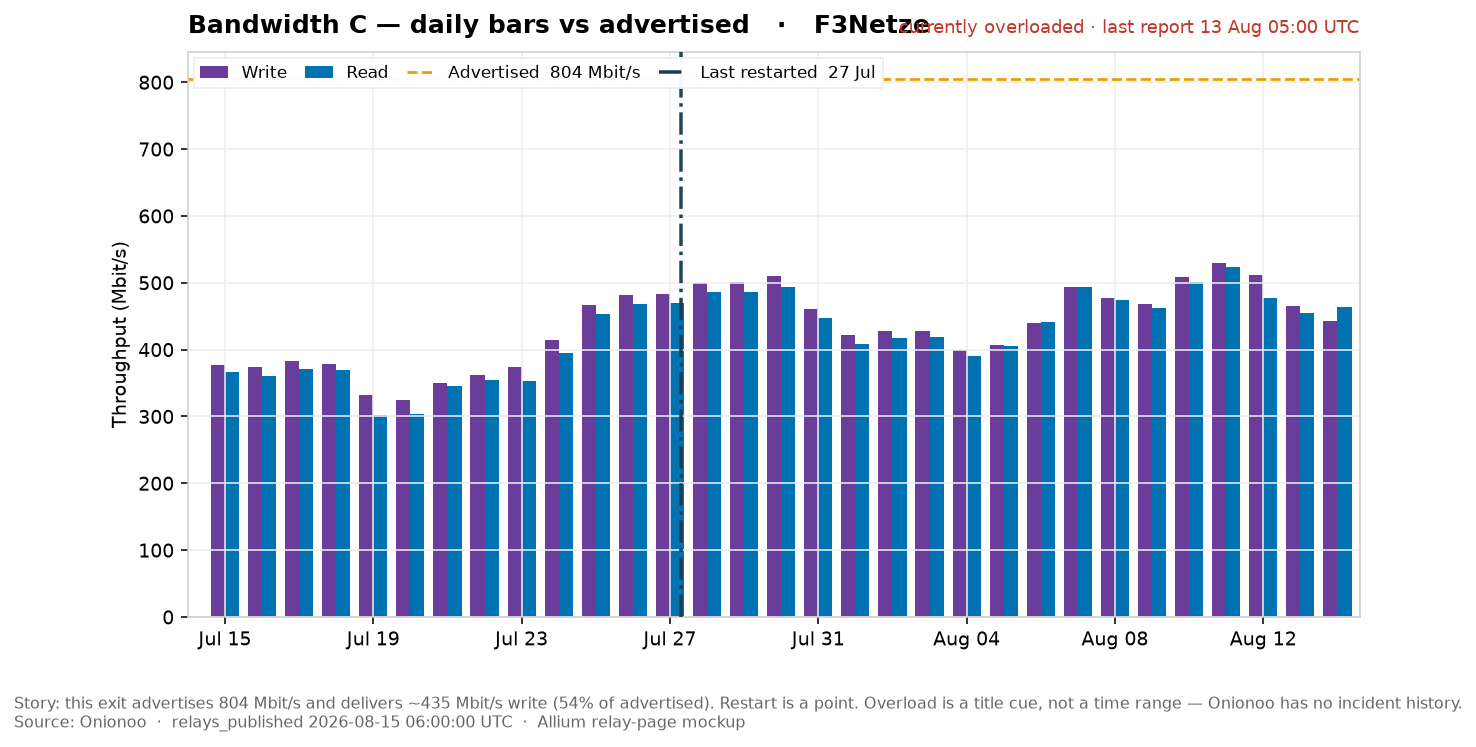
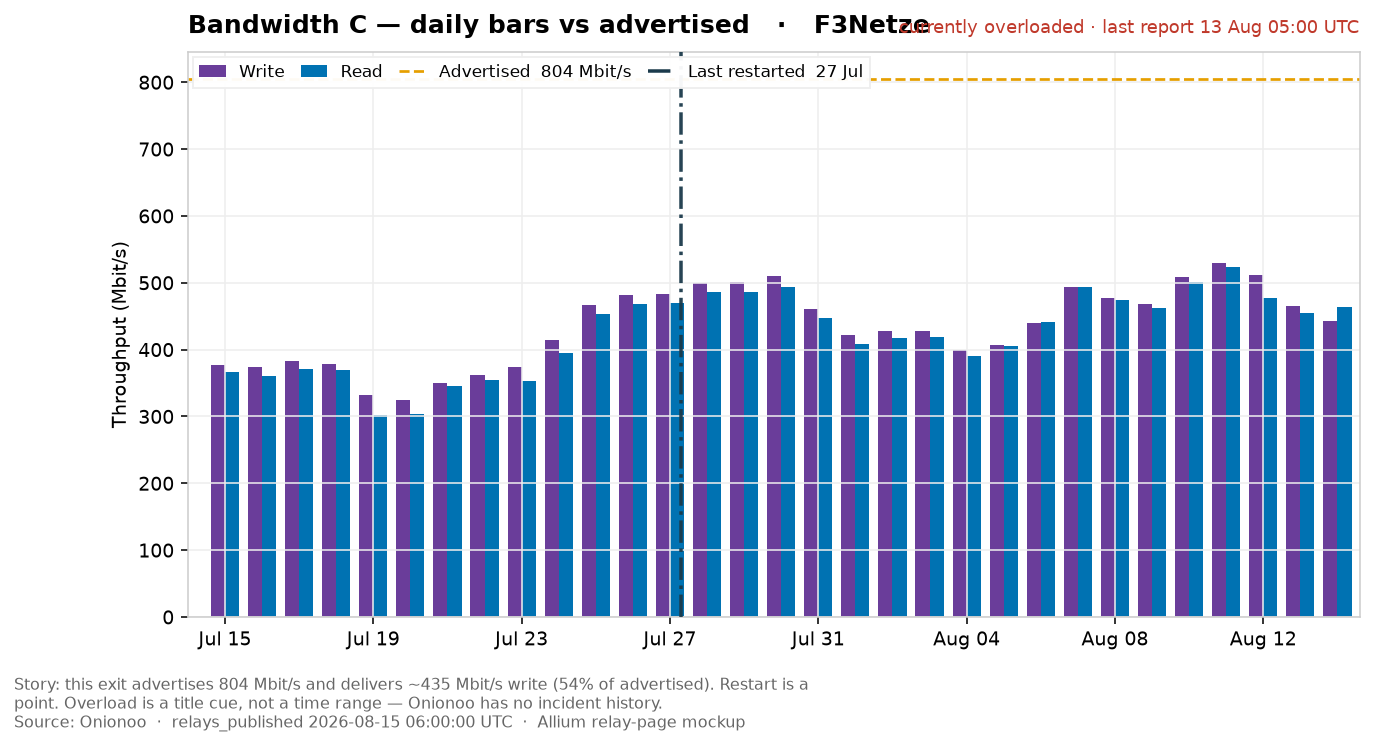
Render option-C period layouts and per-role bandwidth mockups
Wrap overload onto its own legend row (matplotlib fills column-first,
so ncol alone left it on the top line). Wrap long captions so
bbox=tight no longer stretches the figure. Commit the option-C pills,
2x2, hero+sparks, th4r 5Y-omitted, and Exit/Guard/Exit+Guard/Middle
band charts.

diff --git a/docs/features/planned/charts/mockups/relay_page_bw_opt3_role_bands.html b/docs/features/planned/charts/mockups/relay_page_bw_opt3_role_bands.html
@@ -3,7 +3,7 @@
 <head>
   <meta charset="utf-8">
   <meta name="viewport" content="width=device-width, initial-scale=1">
-  <title>jeangrae — Tor Relay | bandwidth chart layout option 2</title>
+  <title>Write/read bands by flag set · option C</title>
   <style>
 :root { --aeo-green:#00ff7f; --aeo-dark-surface:#1e1e1e; --aeo-text-muted:#ccc;
   --color-success:#28a745; --color-danger:#dc3545; --color-warning-text:#856404;
@@ -74,107 +74,77 @@ code { font-size:12px; background:#eee; padding:1px 4px; border-radius:3px; }
   <a class="aeo-nav-brand" href="#">1AEO</a>
   <div class="aeo-nav-links">
     <a href="#">Home</a><a class="active" href="#">Metrics</a>
-    <a href="#">AROI Validator</a><a href="#">RouteFluxMap</a>
   </div>
 </div></nav>
 <div class="container">
-  <p class="breadcrumb">Home &gt; Browse by Network &gt; AS36849 &gt; jeangrae</p>
   <div class="option-banner">
-    <strong>Option 2 of 3 — After Capacity / Measurement</strong>
-    Rejected alt. Scalars first, chart before Network Participation.
-    Relay: <strong>jeangrae</strong> (1aeo family)
-    · not overloaded.
+    <strong>Option C — one chart per frozen flag-set band</strong>
+    Same History subsection as the F3Netze page. Each relay uses its own
+    Exit / Guard / Exit+Guard / Middle p10–p90 and p98. Overlay is already
+    on the strip.
   </div>
-  <h1 class="page-title">View Relay "jeangrae"</h1>
-  <p class="relay-meta">
-    Fingerprint: <code>02B1C5DFBCBEC735435652050DE1AF0BB0B108CF</code> |
-    Operator: <a href="#">1aeo.com</a> |
-    Family: 241 relays |
-    AS36849 · United States |
-    Tor 0.4.9.11 on Linux
-  </p>
-
-  <div id="status" class="section-box" style="border-left:4px solid #28a745;">
-    <h4><div class="section-header"><a href="#status">Health Status</a></div></h4>
-    <div class="health-status-grid">
-      <dl>
-        <div class="health-row"><dt><a href="#flags">Consensus</a></dt>
-          <dd><span class="al-status-success">In Consensus</span></dd></div>
-        <div class="health-row"><dt><a href="#flags">Flags</a></dt>
-          <dd>Fast, Guard, HSDir, Running, Stable, V2Dir, Valid</dd></div>
-        <div class="health-row"><dt><a href="#bandwidth">BW Verified</a></dt>
-          <dd><span class="al-status-success">Measured</span></dd></div>
-        <div class="health-row"><dt><a href="#uptime">Stability</a></dt>
-          <dd><span class="al-status-success">Not Overloaded</span> <span class="al-status-muted">|</span>
-          <span class="al-status-success">14 days ago</span></dd></div>
-      </dl>
-      <dl>
-        <div class="health-row"><dt><a href="#connectivity">Reachability</a></dt>
-          <dd>IPv4 / IPv6 <span class="al-text-small-muted">(Directory Auths)</span></dd></div>
-        <div class="health-row"><dt><a href="#uptime">First Seen</a></dt>
-          <dd>17 months ago</dd></div>
-        <div class="health-row"><dt><a href="#bandwidth">BW Weight</a></dt>
-          <dd>0.0382% of Network | 82.03 MB/s Observed By Relay</dd></div>
-        <div class="health-row"><dt>Version</dt>
-          <dd><span class="al-status-success">0.4.9.11 Recommended</span></dd></div>
-      </dl>
+  
+  <section class="section-box">
+    <h4>Exit+Guard  ·  F3Netze</h4>
+    <p class="relay-meta">
+      <code>3C89C80E2699FB6358BBB64FDC9547AFCB5C03F7</code> · Exit, Fast, Guard, Running, Stable, V2Dir, Valid · AS205100 ·
+      Germany · family 24<br>
+      Frozen bands: typical 0.97–1.15
+      (p10–p90) · investigate &lt;0.93 or
+      &gt;1.71 (beyond p98)
+    </p>
+    <div class="chart-wrap">
+      <img src="relay_bandwidth_a_role_exitguard_f3.png" alt="Throughput history for F3Netze">
+      <p class="chart-note">Exit+Guard frozen p10–p90 / beyond p98. inside Exit+Guard typical 0.97–1.15 (this role's p10–p90).</p>
     </div>
-  </div>
-
-  <section id="flags" class="section-box ghost">
-    <h4>Flags and Eligibility</h4>
-    <p class="al-text-small-muted">Unchanged — eligibility table stays. Flag-flapping
-    chart (R3) would sit here later. Dimmed in this mockup.</p>
   </section>
-
-  <section id="bandwidth" class="section-box">
-    <h4><div class="section-header"><a href="#bandwidth">Bandwidth Metrics</a></div></h4>
-    
-        <div class="row">
-          <div class="col">
-      <h5 class="subsection-header">Capacity (Relay Reported)</h5>
-      <dl>
-        <dt>Observed Bandwidth</dt><dd>82.03 MB/s</dd>
-        <dt>Advertised Bandwidth</dt><dd>82.03 MB/s</dd>
-        <dt>Rate Limit</dt><dd>1.07 GB/s</dd>
-        <dt>Burst Limit</dt><dd>1.07 GB/s</dd>
-      </dl>
+  <section class="section-box">
+    <h4>Guard  ·  jeangrae</h4>
+    <p class="relay-meta">
+      <code>02B1C5DFBCBEC735435652050DE1AF0BB0B108CF</code> · Fast, Guard, HSDir, Running, Stable, V2Dir, Valid · AS36849 ·
+      United States · family 241<br>
+      Frozen bands: typical 1.01–1.17
+      (p10–p90) · investigate &lt;0.99 or
+      &gt;1.58 (beyond p98)
+    </p>
+    <div class="chart-wrap">
+      <img src="relay_bandwidth_a_role_guard_jeangrae.png" alt="Throughput history for jeangrae">
+      <p class="chart-note">Guard frozen p10–p90 / beyond p98. uncommon for Guard at 1.20 (outside p10–p90, inside p2–p98).</p>
     </div>
-          <div class="col">
-      <h5 class="subsection-header">Measurement (Directory Authority Verified)</h5>
-      <dl>
-        <dt>Measured By</dt>
-        <dd><span class="al-status-success">Yes</span> (≥3 authorities)</dd>
-        <dt>Consensus Weight</dt>
-        <dd>87,000 <span class="al-text-small-muted">(0.0382% of network)</span></dd>
-      </dl>
-    </div>
-        </div>
-        <div class="chart-wrap">
-      <img src="relay_bandwidth_page_opt2_jeangrae.png" alt="Throughput history for jeangrae">
-      <p class="chart-note">Onionoo <code>write_history</code> / <code>read_history</code> · advertised is the descriptor snapshot, not a history.</p>
-    </div>
-        <div class="participation">
-      <strong>Network Participation:</strong>
-      Consensus Weight: 0.0382% of network |
-      Guard: 0.0680% |
-      Middle: N/A |
-      Exit: N/A
-    </div>
-        
   </section>
-
-  <section id="uptime" class="section-box ghost">
-    <h4>Uptime and Stability</h4>
-    <p class="al-text-small-muted">Existing 1M/6M/1Y/5Y scalars + overload subsection
-    stay. R1 uptime chart sits here. Dimmed in this mockup.
-    Overload <em>details</em> remain in this section; the bandwidth chart only
-    repeats a current cue if the flag is on.</p>
+  <section class="section-box">
+    <h4>Exit  ·  zarathustra</h4>
+    <p class="relay-meta">
+      <code>E70906B974DF23A6858B06FED589DC3696781F00</code> · Exit, Fast, Running, Stable, Valid · AS680 ·
+      Germany · family 1<br>
+      Frozen bands: typical 0.96–1.02
+      (p10–p90) · investigate &lt;0.92 or
+      &gt;1.13 (beyond p98)
+    </p>
+    <div class="chart-wrap">
+      <img src="relay_bandwidth_a_role_exit_zarathustra.png" alt="Throughput history for zarathustra">
+      <p class="chart-note">Exit frozen p10–p90 / beyond p98. inside Exit typical 0.96–1.02 (this role's p10–p90).</p>
+    </div>
   </section>
+  <section class="section-box">
+    <h4>Middle  ·  10dxx</h4>
+    <p class="relay-meta">
+      <code>F538DBEA80CA7DA733537166CA364D98CBE9E1D1</code> · BadExit, Fast, MiddleOnly, Running, Stable, Valid · AS49981 ·
+      Netherlands · family 1<br>
+      Frozen bands: typical 0.93–1.09
+      (p10–p90) · investigate &lt;0.87 or
+      &gt;1.60 (beyond p98)
+    </p>
+    <div class="chart-wrap">
+      <img src="relay_bandwidth_a_role_middle_10dxx.png" alt="Throughput history for 10dxx">
+      <p class="chart-note">Middle frozen p10–p90 / beyond p98. inside Middle typical 0.93–1.09 (this role's p10–p90).</p>
+    </div>
+  </section>
+  <p class="al-text-small-muted">Onionoo relays_published 2026-08-15 06:00:00 UTC.
+  Bands frozen from the 2026-08-15 19:00 census. Not a live percentile.</p>
 </div>
 <footer class="aeo-footer">
-  Mockup of <code>relay-info.html</code> #bandwidth · Allium · Onionoo snapshot
-  · not a live page
+  Mockup of <code>relay-info.html</code> #bandwidth · Allium
 </footer>
 </body>
 </html>

diff --git a/docs/features/planned/charts/mockups/relay_page_bw_opt3_history_f3.html b/docs/features/planned/charts/mockups/relay_page_bw_opt3_history_f3.html
@@ -54,6 +54,9 @@ dd { margin:2px 0 0; }
   border:1px solid var(--color-border-subtle); }
 .chart-wrap img { width:100%; height:auto; display:block; }
 .chart-note { font-size:12px; color:#666; margin:4px 8px 8px; }
+.layout-label { margin:16px 0 8px; padding:8px 12px; background:#fff;
+  border-left:3px solid #337ab7; font-size:13px; color:#1b3a4b; }
+.layout-label strong { display:block; font-size:14px; margin-bottom:2px; }
 .heading-row { display:flex; align-items:baseline; justify-content:space-between;
   gap:12px; flex-wrap:wrap; }
 .overload-cue { color: var(--overload); font-size:13px; font-weight:600; }
@@ -78,7 +81,7 @@ code { font-size:12px; background:#eee; padding:1px 4px; border-radius:3px; }
   <p class="breadcrumb">Home &gt; Browse by Network &gt; AS205100 &gt; F3Netze</p>
   <div class="option-banner">
     <strong>Option 3 of 3 — History subsection after Network Participation</strong>
-    All snapshot numbers stay together. Chart is a named subsection before “Bandwidth Values Explained”. Overload is a diamond in the legend, not a banner or title shout.
+    Chosen. Snapshot numbers stay together. History is a named subsection before “Bandwidth Values Explained”. Three period layouts below — pick one. Overload wraps onto a second legend line; the progressive-enhancement footnote is gone.
     Relay: <strong>F3Netze</strong> (f3netze.de)
     · overloaded.
   </div>
@@ -155,12 +158,16 @@ code { font-size:12px; background:#eee; padding:1px 4px; border-radius:3px; }
       Exit: 0.3377%
     </div>
         <h5 class="subsection-header" style="margin-top:16px;">History
-          <span class="al-text-small-muted">(Onionoo, 1 month)</span></h5>
-        <div class="chart-wrap">
-      <img src="relay_bandwidth_page_opt3_history_f3.png" alt="Throughput last 30 days for F3Netze">
-      <p class="chart-note">Onionoo <code>write_history</code> / <code>read_history</code>
-      · 1-month daily buckets · advertised is the descriptor snapshot, not a history.
-      Progressive enhancement: the tables stay if this SVG is missing.</p>
+          <span class="al-text-small-muted">(Onionoo write / read)</span></h5>
+        <div class="layout-label"><strong>Period layout 1 — pills (toggle 1M / 6M / 1Y / 5Y)</strong></div><div class="chart-wrap">
+      <img src="relay_bandwidth_periods_pills_f3.png" alt="Throughput history for F3Netze">
+      <p class="chart-note">Default 1M. Omit a pill if Onionoo omitted the graph. A static site pre-renders each selected period.</p>
+    </div><div class="layout-label"><strong>Period layout 2 — equal 2×2 of every published graph</strong></div><div class="chart-wrap">
+      <img src="relay_bandwidth_periods_equal_f3.png" alt="Throughput history for F3Netze">
+      <p class="chart-note">Same size, no click. Empty cell = not published, not 0.</p>
+    </div><div class="layout-label"><strong>Period layout 3 — 1M hero + 6M / 1Y / 5Y sparks</strong></div><div class="chart-wrap">
+      <img src="relay_bandwidth_periods_hero_sparks_f3.png" alt="Throughput history for F3Netze">
+      <p class="chart-note">1M stays large (finest buckets). Longer graphs are context underneath. Omit a spark if unpublished.</p>
     </div>
         <div class="explain">
           <strong>Bandwidth Values Explained:</strong><br>

diff --git a/docs/features/planned/charts/mockups/relay_page_bw_opt1_hero_f3.html b/docs/features/planned/charts/mockups/relay_page_bw_opt1_hero_f3.html
@@ -54,6 +54,9 @@ dd { margin:2px 0 0; }
   border:1px solid var(--color-border-subtle); }
 .chart-wrap img { width:100%; height:auto; display:block; }
 .chart-note { font-size:12px; color:#666; margin:4px 8px 8px; }
+.layout-label { margin:16px 0 8px; padding:8px 12px; background:#fff;
+  border-left:3px solid #337ab7; font-size:13px; color:#1b3a4b; }
+.layout-label strong { display:block; font-size:14px; margin-bottom:2px; }
 .heading-row { display:flex; align-items:baseline; justify-content:space-between;
   gap:12px; flex-wrap:wrap; }
 .overload-cue { color: var(--overload); font-size:13px; font-weight:600; }
@@ -78,7 +81,7 @@ code { font-size:12px; background:#eee; padding:1px 4px; border-radius:3px; }
   <p class="breadcrumb">Home &gt; Browse by Network &gt; AS205100 &gt; F3Netze</p>
   <div class="option-banner">
     <strong>Option 1 of 3 — Hero under the heading</strong>
-    Chart is the first thing #bandwidth lands on. The section heading owns the title; overload is a small rust status next to “Bandwidth Metrics”, not a red pill. Snapshot numbers sit under the chart.
+    Rejected alt. Chart is the first thing #bandwidth lands on.
     Relay: <strong>F3Netze</strong> (f3netze.de)
     · overloaded.
   </div>
@@ -131,10 +134,8 @@ code { font-size:12px; background:#eee; padding:1px 4px; border-radius:3px; }
         </div>
     
         <div class="chart-wrap">
-      <img src="relay_bandwidth_page_opt1_hero_f3.png" alt="Throughput last 30 days for F3Netze">
-      <p class="chart-note">Onionoo <code>write_history</code> / <code>read_history</code>
-      · 1-month daily buckets · advertised is the descriptor snapshot, not a history.
-      Progressive enhancement: the tables stay if this SVG is missing.</p>
+      <img src="relay_bandwidth_page_opt1_hero_f3.png" alt="Throughput history for F3Netze">
+      <p class="chart-note">Onionoo <code>write_history</code> / <code>read_history</code> · advertised is the descriptor snapshot, not a history.</p>
     </div>
         <div class="row">
           <div class="col">

diff --git a/docs/features/planned/charts/generate_relay_page_chart_variations.py b/docs/features/planned/charts/generate_relay_page_chart_variations.py
@@ -13,6 +13,7 @@ from __future__ import annotations
 import argparse
 import json
 import sys
+import textwrap
 from datetime import datetime, timedelta, timezone
 from pathlib import Path
 
@@ -183,9 +184,10 @@ def save(fig, paths):
 
 
 def caption(fig, published, story, y=0.012):
+    wrapped = textwrap.fill(story, width=108)
     fig.text(
         0.01, y,
-        f"{story}\nSource: Onionoo  ·  relays_published {published} UTC  ·  Allium relay-page mockup",
+        f"{wrapped}\nSource: Onionoo  ·  relays_published {published} UTC  ·  Allium relay-page mockup",
         fontsize=8, color=GRAY, va="bottom",
     )
 
@@ -955,24 +957,34 @@ def place_legend_above_axes(ax, handles, fontsize=8.5, ncol=None,
     """
     if not handles:
         return
-    if wrap_last and len(handles) > 1:
-        ncol = len(handles) - 1
-    elif ncol is None:
-        ncol = min(len(handles), 4)
-    ax.legend(
-        handles=handles,
-        loc="upper left",
-        ncol=ncol,
+    style = dict(
         fontsize=fontsize,
         frameon=True,
         fancybox=False,
         edgecolor="#eeeeee",
         facecolor="white",
         framealpha=0.96,
-        borderaxespad=0.35,
+        borderaxespad=0.30,
         columnspacing=1.0,
         handlelength=1.6,
     )
+    # Matplotlib fills column-first, so ncol=n-1 still parks the last
+    # handle on row 1. Two legends force overload onto its own line.
+    if wrap_last and len(handles) > 1:
+        first = ax.legend(
+            handles=handles[:-1], loc="upper left",
+            ncol=min(len(handles) - 1, 4), **style,
+        )
+        ax.add_artist(first)
+        ax.legend(
+            handles=handles[-1:], loc="upper left",
+            bbox_to_anchor=(0.0, 0.84), bbox_transform=ax.transAxes,
+            **style,
+        )
+        return
+    if ncol is None:
+        ncol = min(len(handles), 4)
+    ax.legend(handles=handles, loc="upper left", ncol=ncol, **style)
 
 
 def apply_throughput_title(ax, title, overload_status, overload_mode):
@@ -1251,7 +1263,7 @@ def bandwidth_a_dual_line(ts, read_m, write_m, advertised_mbit, events, publishe
     place_legend_above_axes(
         ax,
         throughput_legend_handles(
-            advertised_mbit, events, overload_status,
+            advertised_mbit, events_in_span(events, ts), overload_status,
             overload_in_legend=(overload_mode == "legend"),
         ),
         wrap_last=wrap_last,
@@ -1414,7 +1426,8 @@ def bandwidth_periods_pills(periods, selected_key, advertised_mbit, events,
     place_legend_above_axes(
         ax,
         throughput_legend_handles(
-            advertised_mbit, events, overload_status, overload_in_legend=True,
+            advertised_mbit, events_in_span(events, ts), overload_status,
+            overload_in_legend=True,
         ),
         wrap_last=wrap_last,
     )
@@ -1451,10 +1464,18 @@ def bandwidth_periods_equal(periods, advertised_mbit, events, overload_status,
     handles = throughput_legend_handles(
         advertised_mbit, events, overload_status, overload_in_legend=True,
     )
+    main, extra = (handles[:-1], handles[-1:]) if (
+        overload_status and len(handles) > 1
+    ) else (handles, [])
     fig.legend(
-        handles=handles, loc="upper left", bbox_to_anchor=(0.08, 0.98),
-        ncol=3, fontsize=8.0, frameon=False,
+        handles=main, loc="upper left", bbox_to_anchor=(0.08, 0.98),
+        ncol=min(len(main), 4), fontsize=8.0, frameon=False,
     )
+    if extra:
+        fig.legend(
+            handles=extra, loc="upper left", bbox_to_anchor=(0.08, 0.935),
+            ncol=1, fontsize=8.0, frameon=False,
+        )
     for i, key in enumerate(PERIOD_ORDER):
         ax = axes[i // 2][i % 2]
         meta = BW_PERIOD_META[key]
@@ -1512,7 +1533,8 @@ def bandwidth_periods_hero_sparks(periods, advertised_mbit, events, overlays,
     place_legend_above_axes(
         ax,
         throughput_legend_handles(
-            advertised_mbit, events, overload_status, overload_in_legend=True,
+            advertised_mbit, events_in_span(events, block["ts"]),
+            overload_status, overload_in_legend=True,
         ),
         wrap_last=wrap_last,
     )
